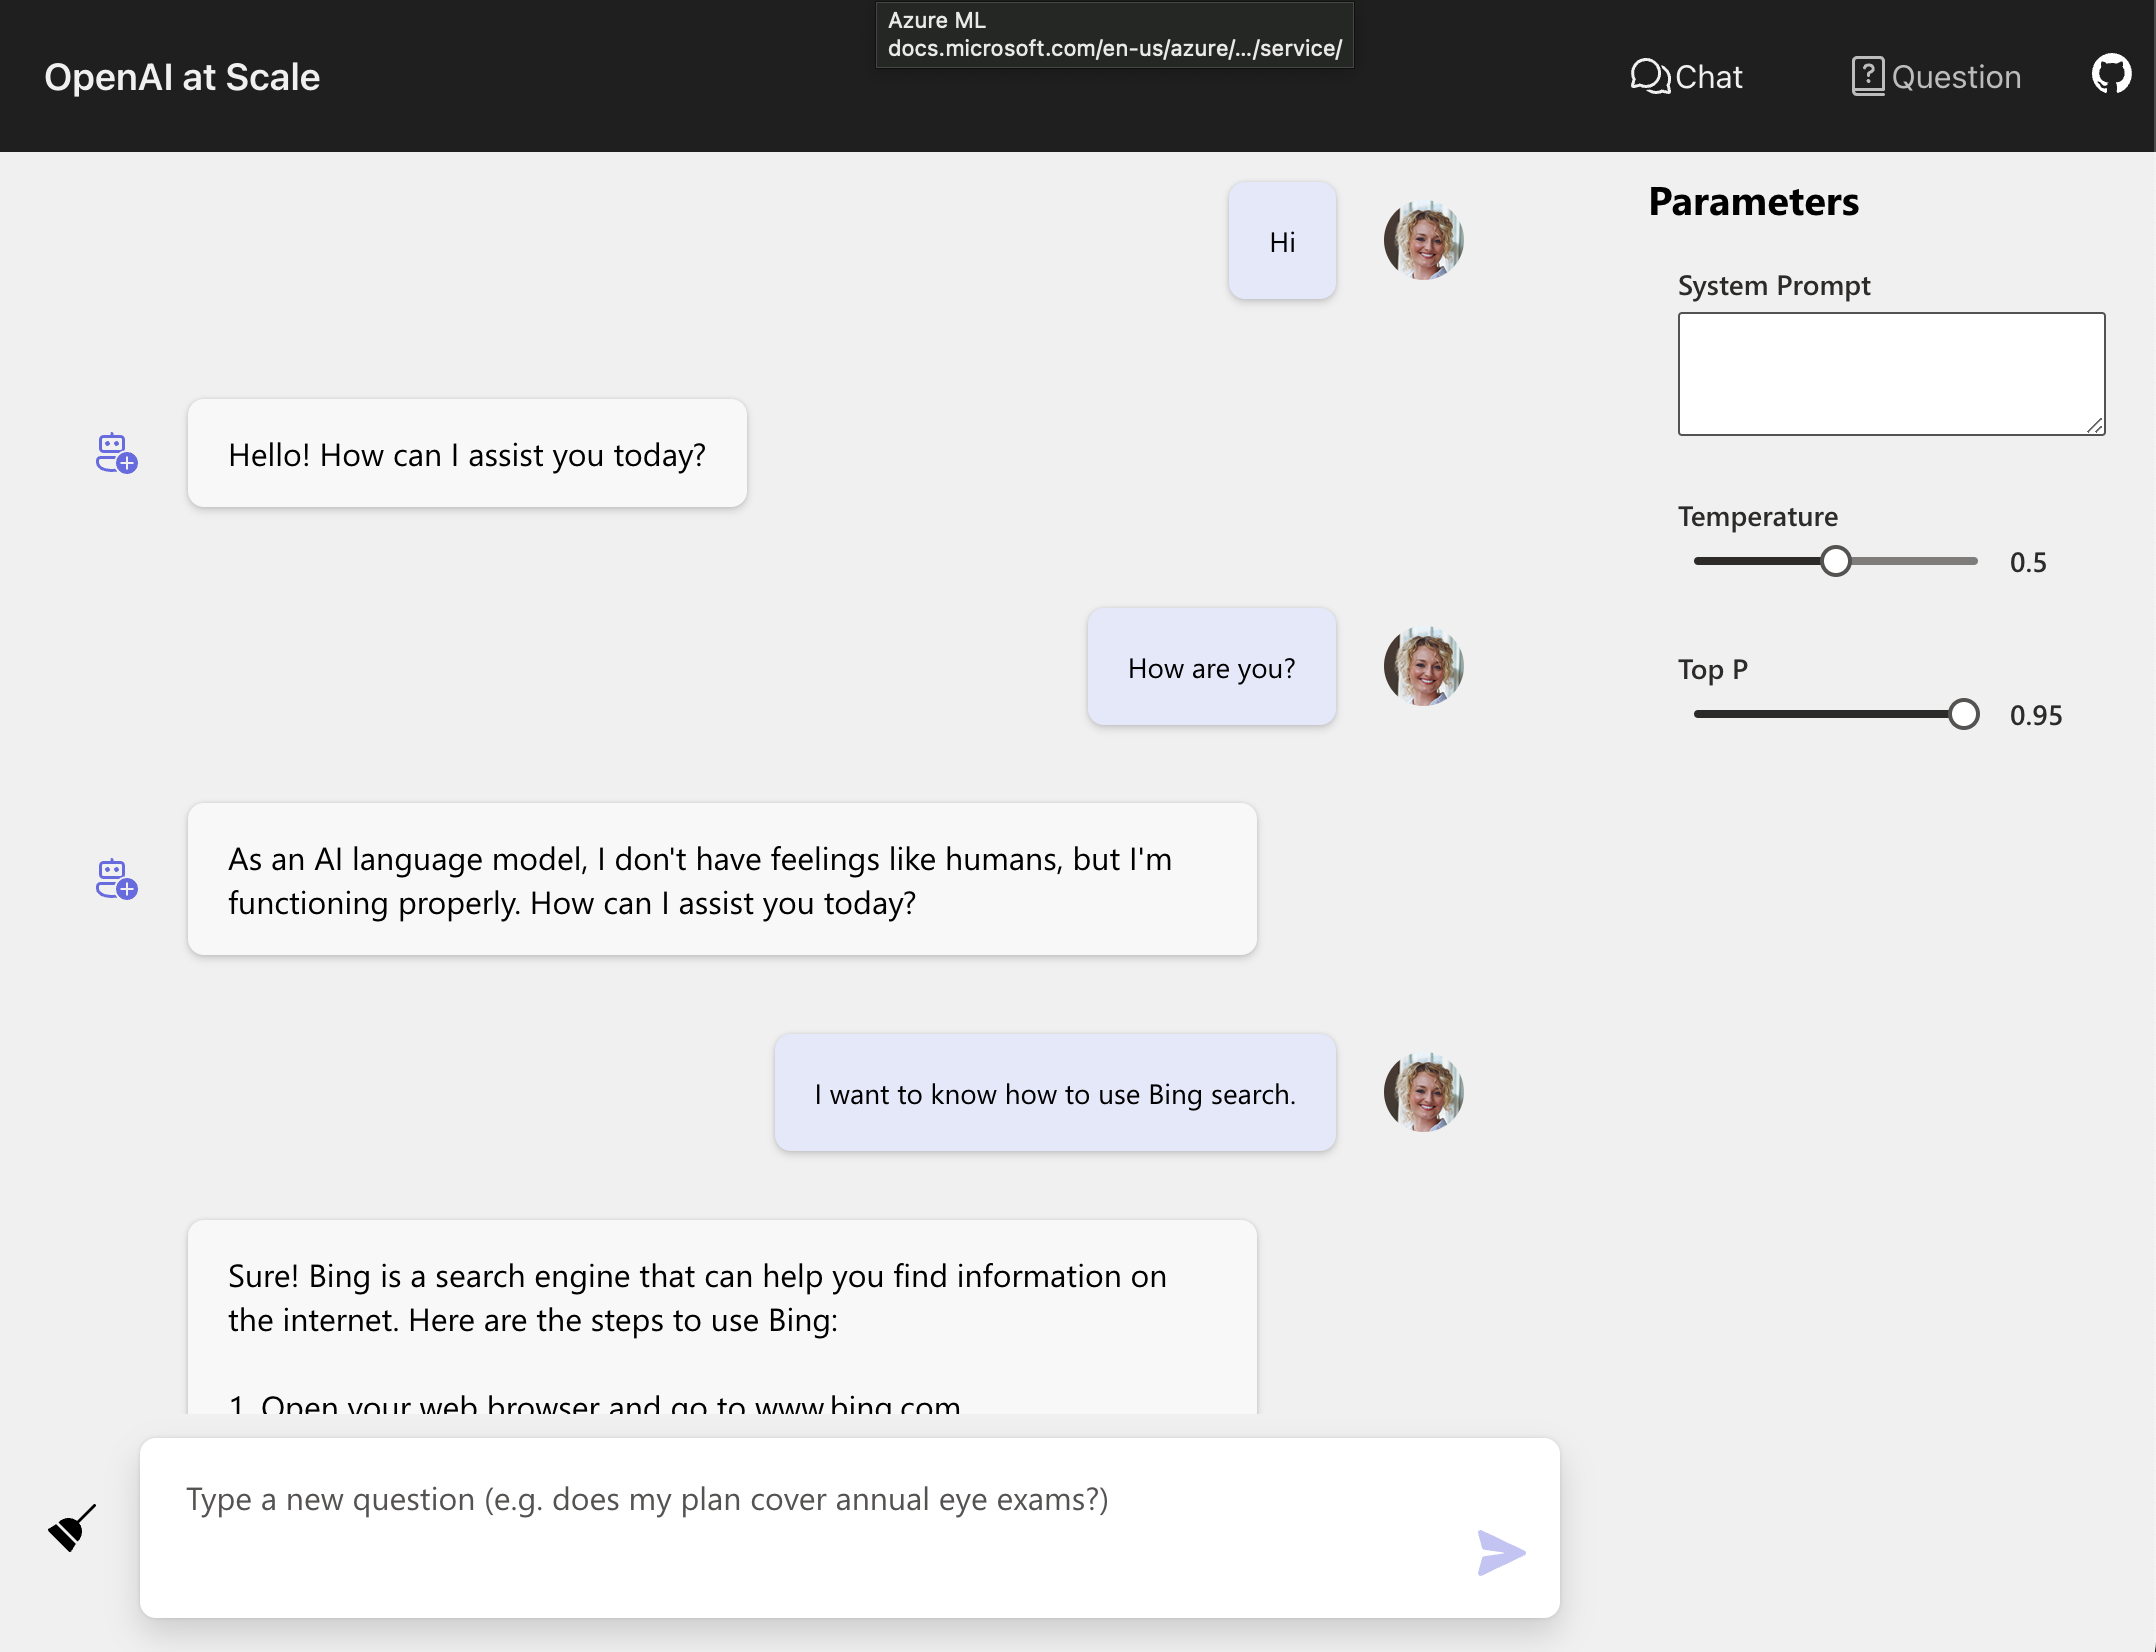
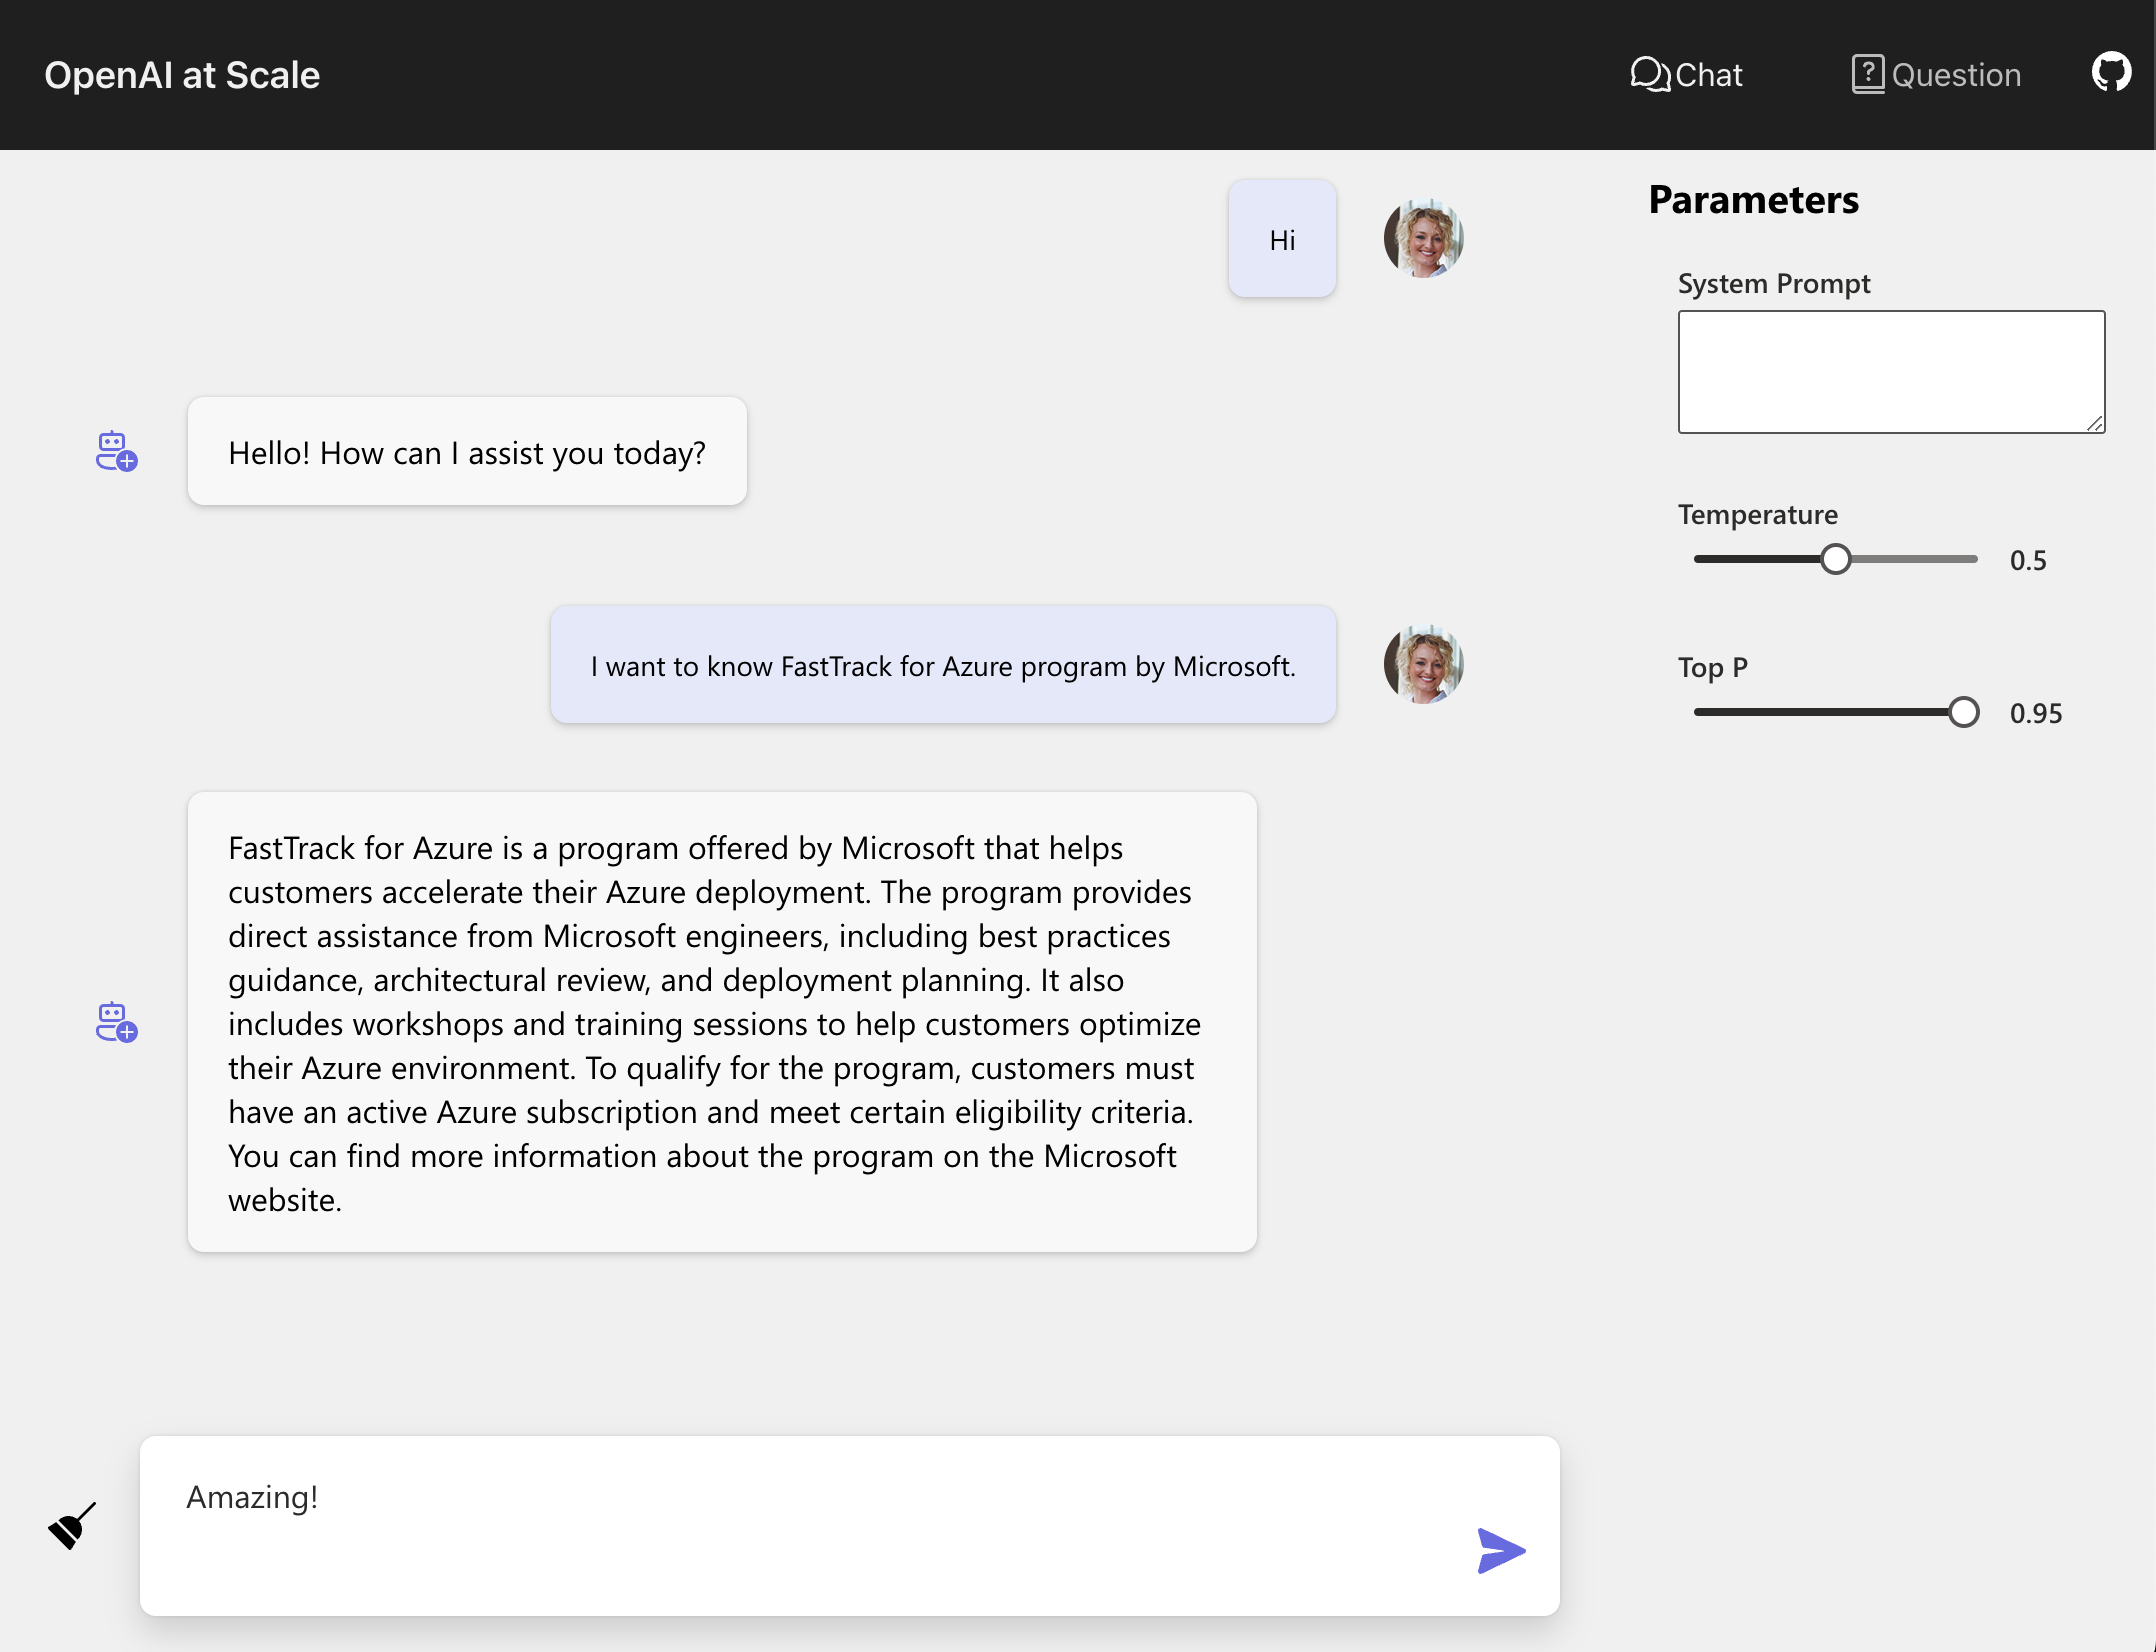
add features description and change screenshot

diff --git a/README.md b/README.md
@@ -6,10 +6,14 @@ This content is in early alpha stage and is subject to change.
 
 <img src="./docs/appcomponents.png" width="400">
 
-<br />
+
+## Features
+- Chat and Q&A interfaces
+- Configure system prompts and hyperparameters
+- Authenticate with Azure Active Directory
+- Store logs into Cosmos DB and Log Analytics
 
 <img src="./docs/chatscreen.png" width="400">
-
 
 ---
 ## Get Started
